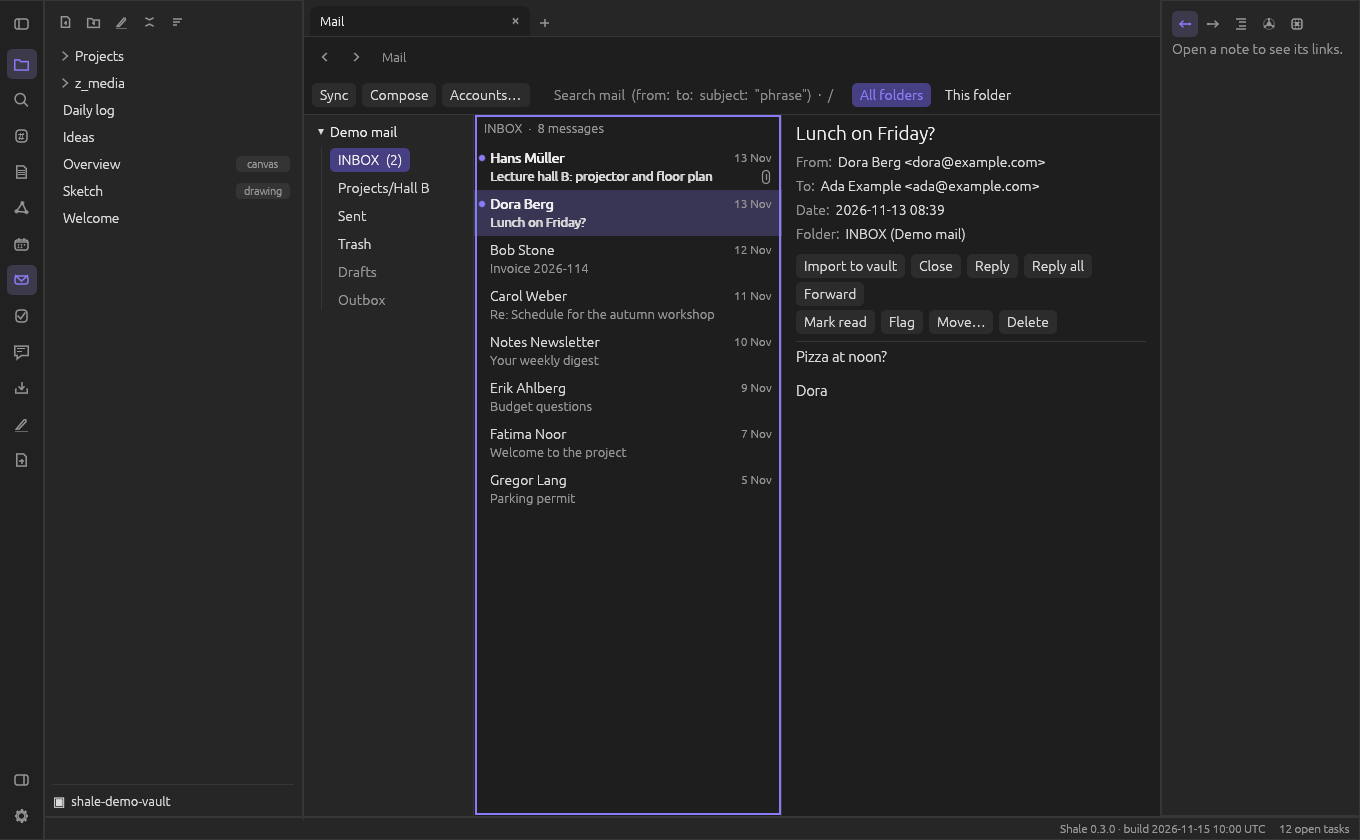
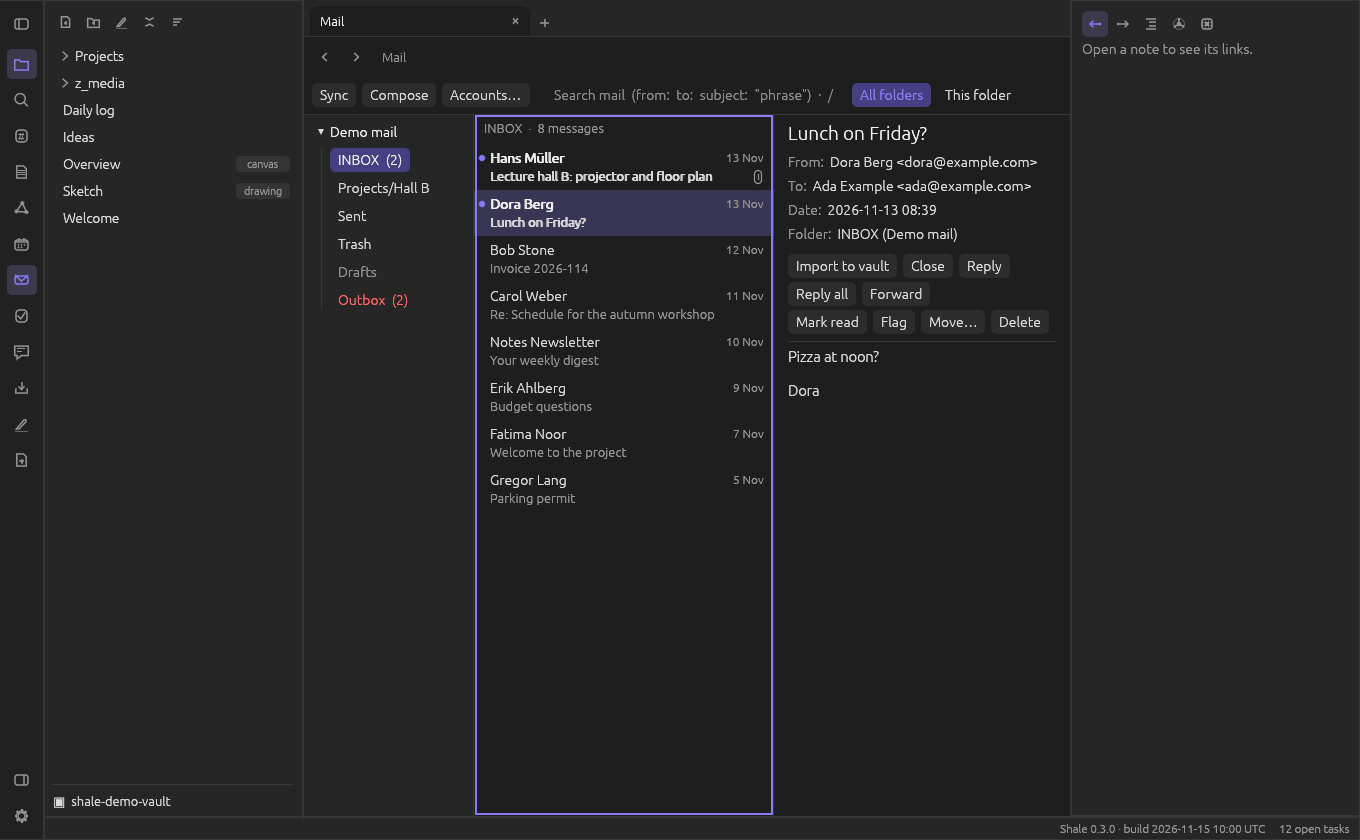
Demo mail: one failed and one unsure outbox mail, with recipes for the Outbox detail (MAIL-227, Closes #138)

diff --git a/src/mail/demo.rs b/src/mail/demo.rs
@@ -1,7 +1,9 @@
 //! A small made-up mail store for screenshots (`--screenshot out.png --view mail`), like the
 //! demo vault: no server and no real mail are involved.
 
+use crate::mail::compose::{build, new_draft, BuildOptions};
 use crate::mail::db::{FolderRow, Op};
+use crate::mail::outbox::{Outbox, Outcome};
 use crate::mail::store::MailStore;
 use std::path::Path;
 
@@ -17,7 +19,35 @@ fn eml(from: &str, subject: &str, day: u32, body: &str, attachment: bool) -> Vec
     }
 }
 
-/// Fill the store at `root` with a few mails in an Inbox and a Sent folder.
+/// Put two mails into the outbox of the demo account through the real transitions: one the server refused (Failed) and one
+/// whose answer never came (Unsure), so the Outbox detail can be pictured in both states (MAIL-227, #138).
+fn seed_outbox(root: &Path) -> Result<(), String> {
+    let ob = Outbox::new(root);
+    let now = 1_794_000_000 + 13 * 86_400;
+    let date = "2026-11-13";
+    let mails = [
+        (
+            "Hans Müller <hans@example.com>",
+            "Re: Lecture hall B: projector and floor plan",
+            "Hello Hans,\n\nthe seating in the floor plan is fine for us. Please confirm the room for Thursday.\n\nAda",
+            Outcome::Failed("550 5.1.1 <hans@example.com>: Recipient address rejected: User unknown".into()),
+        ),
+        ("Dora Berg <dora@example.com>", "Re: Lunch on Friday?", "Noon is good, see you at the pizza place.\n\nAda", Outcome::Unsure("Connection reset by peer while waiting for the reply to DATA".into())),
+    ];
+    for (to, subject, body, outcome) in mails {
+        let mut d = new_draft(ACCOUNT, "Ada Example", "ada@example.com", "");
+        d.to = to.into();
+        d.subject = subject.into();
+        d.body = body.into();
+        let built = build(&d, &BuildOptions { now, ..BuildOptions::default() }).map_err(|e| e.0)?;
+        ob.queue(&d, &built, now, now, date)?;
+        ob.begin_send(ACCOUNT, &d.id, now)?;
+        ob.finish(ACCOUNT, &d.id, outcome, now)?;
+    }
+    Ok(())
+}
+
+/// Fill the store at `root` with a few mails in an Inbox and a Sent folder, and two mails in the outbox.
 pub fn seed(root: &Path) -> Result<(), String> {
     let store = MailStore::open(root).map_err(|e| e.0)?;
     let mails: &[(&str, &str, u32, &str, bool, bool)] = &[
@@ -55,12 +85,13 @@ pub fn seed(root: &Path) -> Result<(), String> {
     inbox_items.sort_by_key(|x| x.2);
     fill(&inbox, inbox_items)?;
     fill(&sent, vec![(eml("Ada Example <ada@example.com>", "Re: Schedule for the autumn workshop", 11, "Thursday is fine, see you there.\r\n\r\nAda", false), true, 1_794_000_000 + 11 * 86_400)])?;
-    Ok(())
+    seed_outbox(root)
 }
 
 #[cfg(test)]
 mod tests {
     use super::*;
+    use crate::mail::outbox::State;
 
     // spec: MAIL-050
     #[test]
@@ -76,6 +107,21 @@ mod tests {
         assert_eq!(list.len(), 8);
         assert!(list[0].subject.starts_with("Lecture hall B") || list[0].subject.starts_with("Lunch"), "{:?}", list[0].subject);
         assert!(list.iter().any(|m| m.has_attachments));
+        let _ = std::fs::remove_dir_all(&root);
+    }
+
+    // spec: MAIL-227
+    #[test]
+    fn the_demo_outbox_has_one_failed_and_one_unsure_mail() {
+        let root = std::env::temp_dir().join(format!("shale-mail-demo-outbox-{}", std::process::id()));
+        let _ = std::fs::remove_dir_all(&root);
+        seed(&root).unwrap();
+        let items = Outbox::new(&root).list(Some(ACCOUNT));
+        let states: Vec<_> = items.iter().map(|i| i.state).collect();
+        assert_eq!(items.len(), 2, "{states:?}");
+        assert_eq!(states.iter().filter(|s| **s == State::Failed).count(), 1, "{states:?}");
+        assert_eq!(states.iter().filter(|s| **s == State::Unsure).count(), 1, "{states:?}");
+        assert!(items.iter().all(|i| i.error.is_some()), "both say why");
         let _ = std::fs::remove_dir_all(&root);
     }
 }

diff --git a/docs/spec/mail.md b/docs/spec/mail.md
@@ -94,6 +94,7 @@ Phase 1a covers the store, the read-only sync and their tests. Phase 1b (MAIL-04
 | MAIL-224 | The mail keys (MAIL-061, MAIL-067…069) also work while a row of the view has the keyboard focus because Tab moved there (message list, Drafts, Outbox): `e` opens the focused draft, `j` and `k` go on, Enter opens. They stay off while a text field, another widget (a button) or a dialog has the focus, so typing is never taken. Enter and the arrow keys are keys of the view (they act on the cursor, which Tab moved to the row), Space is left to egui (it clicks the row). | IS NOW | `mail/view.rs::MailView::handle_keys`, `mail/keys.rs::Kbd::row_focus` | `mail/ui_tests.rs::the_mail_keys_work_while_tab_has_put_the_focus_on_a_row`, `mail/ui_tests.rs::a_key_typed_in_a_text_field_stays_with_the_field_and_triggers_no_mail_action` |
 | MAIL-225 | Each pane of the mail view has a least width: the folders 170, the message list 220, the message 280 points. When the view is wide enough the layout is as before, except that the list gives width to the message until the message has its 280. When the view is narrower than the three together (670) no pane gives way: all three keep their least width and the strip of the panes scrolls sideways (a bar at the bottom of the view, Shift+wheel works as everywhere in egui). The pane that has the keyboard (MAIL-062) is scrolled into view whenever the keyboard moves to another pane (Ctrl+H / Ctrl+L, a click, choosing a folder, opening a message) and when the narrow layout starts, so the view works without the mouse too; the strip is not scrolled again while the keyboard stays, so the bar can be used freely. Why: it is the simplest behaviour, nothing is hidden, there is no second layout, and it is how the app treats content that does not fit elsewhere (it scrolls). The sidebars of the app are not touched: at the least window of 720×480 with both hidden all three panes fit without scrolling. | IS NOW | `mail/view.rs::MailView::panes`, `mail/view.rs::MailView::pane_strip`, `mail/keys.rs::Kbd::scrolled_to` | `mail/ui_tests.rs::the_panes_keep_their_minimum_widths_and_the_one_with_the_keyboard_is_scrolled_into_view`, `mail/ui_tests.rs::the_buttons_of_an_open_message_are_reachable_in_narrow_windows`, `mail/ui_tests.rs::the_buttons_of_the_outbox_detail_are_reachable_and_work_in_narrow_windows` |
 | MAIL-226 | The detail of an Outbox mail scrolls up and down when it is longer than its pane, and the rows of its buttons (Retry / Send again, Edit, Discard / Dismiss, Undo send) wrap, so that every button stays reachable in a pane of the least width (MAIL-225) and in a short window; long subjects and lines of text wrap instead of widening the pane. | IS NOW | `mail/compose_ui.rs::MailView::outbox_detail` | `mail/ui_tests.rs::the_buttons_of_the_outbox_detail_are_reachable_and_work_in_narrow_windows`, `mail/ui_tests.rs::a_long_outbox_detail_scrolls_so_that_its_buttons_stay_reachable_in_a_short_window` |
+| MAIL-227 | The made-up mail of `shale --screenshot --view mail` (`mail/demo.rs`) holds two outbox mails of the demo account, made through the real outbox transitions (queue, begin send, finish): one **not sent** (Failed, with the server's words) and one **may have been sent** (Unsure), so the Outbox detail can be pictured in both states, with a recipe (`outbox-failed`, `outbox-unsure`) and without a code change (#138). | IS NOW | `mail/demo.rs`, `docs/screenshots/recipes.conf` | `mail/demo.rs::the_demo_outbox_has_one_failed_and_one_unsure_mail` |
 
 ## Import to vault (MAIL-07x)
 

diff --git a/docs/FEATURES.md b/docs/FEATURES.md
@@ -325,6 +325,10 @@ again from the recipes in `docs/screenshots/recipes.conf`.
   nobody can know whether it went out: the mail shows as "may have been sent", Shale never sends it
   again by itself, and you look in Sent and choose **Send again** or **Discard**. The same if Shale was
   closed in the middle of sending.
+
+  ![An outbox mail that was not sent](screenshots/outbox-failed.png)
+  ![An outbox mail that may have been sent](screenshots/outbox-unsure.png)
+
 - **Questions before sending**: with no subject, with no text, and when the text says "attached" /
   "attachment" / "angehängt" / "anbei" / "Anhang" but nothing is attached. Bcc recipients get the mail
   but are never written into it; no read receipt is requested; the `User-Agent` header is off unless

diff --git a/docs/changelog-pending/I138.md b/docs/changelog-pending/I138.md
@@ -1,0 +1,3 @@
+### Changed
+
+- The made-up mail of `shale --screenshot --view mail` holds a not-sent and a may-have-been-sent outbox mail, so the Outbox detail can be pictured with the new `outbox-failed` and `outbox-unsure` recipes (raba/shale#138).
